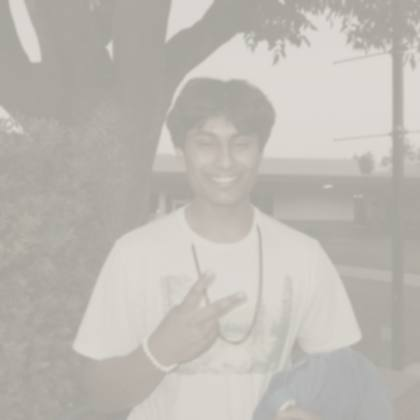
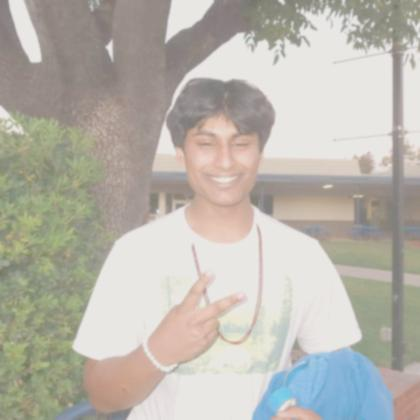
Polaroids: overexposed colour instead of black and white

diff --git a/index.html b/index.html
@@ -28,11 +28,11 @@
 <header id="top" class="hero">
   <div class="hero-text">
     <div class="polaroids" aria-label="Photos">
-      <figure class="pol p1"><img src="assets/polaroids/1.jpg" alt="" onerror="this.remove()" /></figure>
-      <figure class="pol p2"><img src="assets/polaroids/2.jpg" alt="" onerror="this.remove()" /></figure>
-      <figure class="pol p3"><img src="assets/polaroids/3.jpg" alt="" onerror="this.remove()" /></figure>
-      <figure class="pol p4"><img src="assets/polaroids/4.jpg" alt="" onerror="this.remove()" /></figure>
-      <figure class="pol p5"><img src="assets/polaroids/5.jpg" alt="" onerror="this.remove()" /></figure>
+      <figure class="pol p1"><img src="assets/polaroids/1.jpg?v=2" alt="" onerror="this.remove()" /></figure>
+      <figure class="pol p2"><img src="assets/polaroids/2.jpg?v=2" alt="" onerror="this.remove()" /></figure>
+      <figure class="pol p3"><img src="assets/polaroids/3.jpg?v=2" alt="" onerror="this.remove()" /></figure>
+      <figure class="pol p4"><img src="assets/polaroids/4.jpg?v=2" alt="" onerror="this.remove()" /></figure>
+      <figure class="pol p5"><img src="assets/polaroids/5.jpg?v=2" alt="" onerror="this.remove()" /></figure>
     </div>
     <p class="kicker mono">hi, i'm</p>
     <h1 id="name" aria-label="Samahith"><span class="line" data-word="Samahith">Samahith</span><svg class="swash" viewBox="0 0 600 60" preserveAspectRatio="none" aria-hidden="true"><path d="M6 38 C 90 18, 170 52, 250 34 S 400 16, 470 30 S 560 44, 594 22" /></svg><svg class="spark" viewBox="0 0 40 40" aria-hidden="true"><path d="M20 2 L22 17 L38 20 L22 23 L20 38 L18 23 L2 20 L18 17 Z" /></svg></h1>
